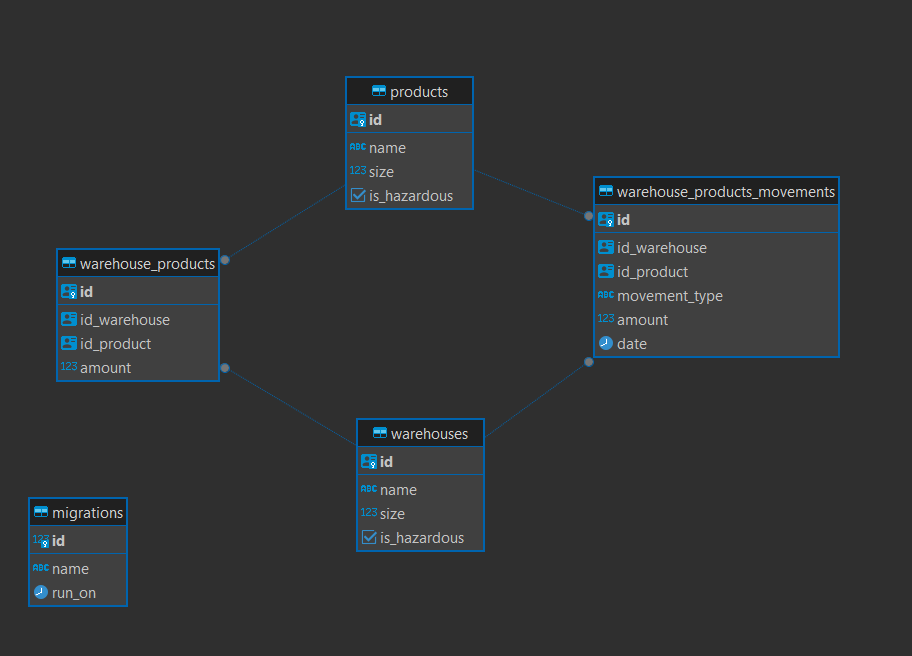
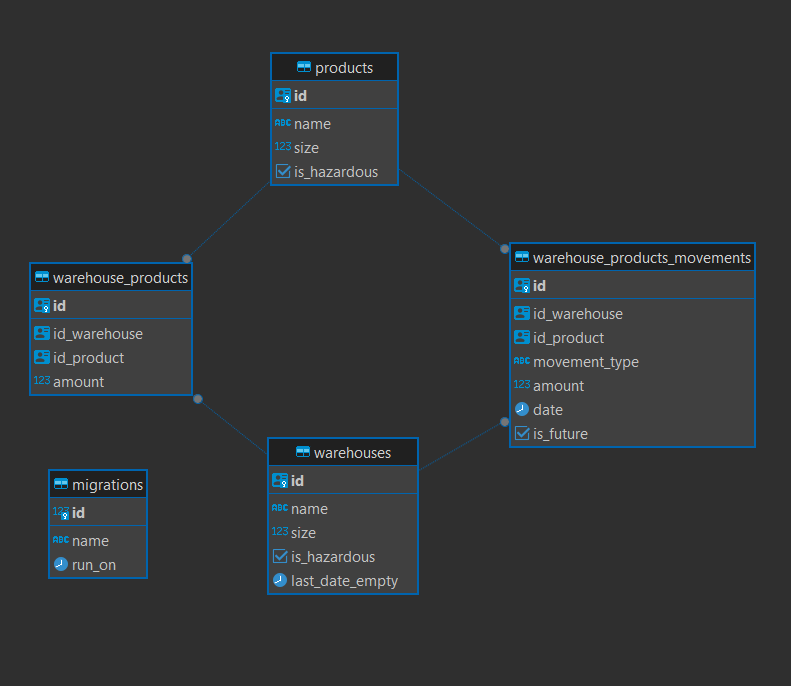
Add is_future to warehouse_products_movements and last_date_empty to warehouses

diff --git a/db_admin/scripts/002-records.js b/db_admin/scripts/002-records.js
@@ -43,19 +43,19 @@ const query = [
   `INSERT INTO products (name, size, is_hazardous) VALUES ('Shaving Cream', 2, FALSE);`,
 
   // Insert warehouse movements for "Warehouse Block A", imports
-  `INSERT INTO warehouse_products_movements (id, id_warehouse, id_product, movement_type, amount, date) VALUES (gen_random_uuid(), (SELECT id FROM warehouses WHERE name = 'Warehouse Block A'), (SELECT id FROM products WHERE name = 'Acetone'), 'import', 1, '2024/12/12 10:00:00.001');`,
-  `INSERT INTO warehouse_products_movements (id, id_warehouse, id_product, movement_type, amount, date) VALUES (gen_random_uuid(), (SELECT id FROM warehouses WHERE name = 'Warehouse Block A'), (SELECT id FROM products WHERE name = 'Hydrochloric Acid'), 'import', 2, '2024/12/12 11:00:00.001');`,
-  `INSERT INTO warehouse_products_movements (id, id_warehouse, id_product, movement_type, amount, date) VALUES (gen_random_uuid(), (SELECT id FROM warehouses WHERE name = 'Warehouse Block A'), (SELECT id FROM products WHERE name = 'Sodium Cyanide'), 'import', 3, '2024/12/12 12:00:00.001');`,
-  `INSERT INTO warehouse_products_movements (id, id_warehouse, id_product, movement_type, amount, date) VALUES (gen_random_uuid(), (SELECT id FROM warehouses WHERE name = 'Warehouse Block A'), (SELECT id FROM products WHERE name = 'Benzene'), 'import', 1, now());`,
-  `INSERT INTO warehouse_products_movements (id, id_warehouse, id_product, movement_type, amount, date) VALUES (gen_random_uuid(), (SELECT id FROM warehouses WHERE name = 'Warehouse Block A'), (SELECT id FROM products WHERE name = 'Mercury'), 'import', 2, now());`,
-  `INSERT INTO warehouse_products_movements (id, id_warehouse, id_product, movement_type, amount, date) VALUES (gen_random_uuid(), (SELECT id FROM warehouses WHERE name = 'Warehouse Block A'), (SELECT id FROM products WHERE name = 'Gasoline'), 'import', 1, now());`,
-  `INSERT INTO warehouse_products_movements (id, id_warehouse, id_product, movement_type, amount, date) VALUES (gen_random_uuid(), (SELECT id FROM warehouses WHERE name = 'Warehouse Block A'), (SELECT id FROM products WHERE name = 'Radioactive Waste'), 'import', 2, now());`,
-  `INSERT INTO warehouse_products_movements (id, id_warehouse, id_product, movement_type, amount, date) VALUES (gen_random_uuid(), (SELECT id FROM warehouses WHERE name = 'Warehouse Block A'), (SELECT id FROM products WHERE name = 'Chlorine Gas'), 'import', 3, now());`,
+  `INSERT INTO warehouse_products_movements (id, id_warehouse, id_product, movement_type, amount, date, is_future) VALUES (gen_random_uuid(), (SELECT id FROM warehouses WHERE name = 'Warehouse Block A'), (SELECT id FROM products WHERE name = 'Acetone'), 'import', 1, '2024/12/12 10:00:00.001', false);`,
+  `INSERT INTO warehouse_products_movements (id, id_warehouse, id_product, movement_type, amount, date, is_future) VALUES (gen_random_uuid(), (SELECT id FROM warehouses WHERE name = 'Warehouse Block A'), (SELECT id FROM products WHERE name = 'Hydrochloric Acid'), 'import', 2, '2024/12/12 11:00:00.001', false);`,
+  `INSERT INTO warehouse_products_movements (id, id_warehouse, id_product, movement_type, amount, date, is_future) VALUES (gen_random_uuid(), (SELECT id FROM warehouses WHERE name = 'Warehouse Block A'), (SELECT id FROM products WHERE name = 'Sodium Cyanide'), 'import', 3, '2024/12/12 12:00:00.001', false);`,
+  `INSERT INTO warehouse_products_movements (id, id_warehouse, id_product, movement_type, amount, date, is_future) VALUES (gen_random_uuid(), (SELECT id FROM warehouses WHERE name = 'Warehouse Block A'), (SELECT id FROM products WHERE name = 'Benzene'), 'import', 1, now(), false);`,
+  `INSERT INTO warehouse_products_movements (id, id_warehouse, id_product, movement_type, amount, date, is_future) VALUES (gen_random_uuid(), (SELECT id FROM warehouses WHERE name = 'Warehouse Block A'), (SELECT id FROM products WHERE name = 'Mercury'), 'import', 2, now(), false);`,
+  `INSERT INTO warehouse_products_movements (id, id_warehouse, id_product, movement_type, amount, date, is_future) VALUES (gen_random_uuid(), (SELECT id FROM warehouses WHERE name = 'Warehouse Block A'), (SELECT id FROM products WHERE name = 'Gasoline'), 'import', 1, now(), false);`,
+  `INSERT INTO warehouse_products_movements (id, id_warehouse, id_product, movement_type, amount, date, is_future) VALUES (gen_random_uuid(), (SELECT id FROM warehouses WHERE name = 'Warehouse Block A'), (SELECT id FROM products WHERE name = 'Radioactive Waste'), 'import', 2, now(), false);`,
+  `INSERT INTO warehouse_products_movements (id, id_warehouse, id_product, movement_type, amount, date, is_future) VALUES (gen_random_uuid(), (SELECT id FROM warehouses WHERE name = 'Warehouse Block A'), (SELECT id FROM products WHERE name = 'Chlorine Gas'), 'import', 3, now(), false);`,
 
   // Insert warehouse movements for "Warehouse Block A", exports
-  `INSERT INTO warehouse_products_movements (id, id_warehouse, id_product, movement_type, amount, date) VALUES (gen_random_uuid(), (SELECT id FROM warehouses WHERE name = 'Warehouse Block A'), (SELECT id FROM products WHERE name = 'Acetone'), 'export', 1, now());`,
-  `INSERT INTO warehouse_products_movements (id, id_warehouse, id_product, movement_type, amount, date) VALUES (gen_random_uuid(), (SELECT id FROM warehouses WHERE name = 'Warehouse Block A'), (SELECT id FROM products WHERE name = 'Hydrochloric Acid'), 'export', 1, now());`,
-  `INSERT INTO warehouse_products_movements (id, id_warehouse, id_product, movement_type, amount, date) VALUES (gen_random_uuid(), (SELECT id FROM warehouses WHERE name = 'Warehouse Block A'), (SELECT id FROM products WHERE name = 'Sodium Cyanide'), 'export', 1, now());`,
+  `INSERT INTO warehouse_products_movements (id, id_warehouse, id_product, movement_type, amount, date, is_future) VALUES (gen_random_uuid(), (SELECT id FROM warehouses WHERE name = 'Warehouse Block A'), (SELECT id FROM products WHERE name = 'Acetone'), 'export', 1, now(), false);`,
+  `INSERT INTO warehouse_products_movements (id, id_warehouse, id_product, movement_type, amount, date, is_future) VALUES (gen_random_uuid(), (SELECT id FROM warehouses WHERE name = 'Warehouse Block A'), (SELECT id FROM products WHERE name = 'Hydrochloric Acid'), 'export', 1, now(), false);`,
+  `INSERT INTO warehouse_products_movements (id, id_warehouse, id_product, movement_type, amount, date, is_future) VALUES (gen_random_uuid(), (SELECT id FROM warehouses WHERE name = 'Warehouse Block A'), (SELECT id FROM products WHERE name = 'Sodium Cyanide'), 'export', 1, now(), false);`,
 
   // Insert warehouse current products for "Warehouse Block A"
   `INSERT INTO warehouse_products (id, id_warehouse, id_product, amount) VALUES (gen_random_uuid(), (SELECT id FROM warehouses WHERE name = 'Warehouse Block A'), (SELECT id FROM products WHERE name = 'Hydrochloric Acid'), 1);`,
@@ -67,20 +67,20 @@ const query = [
   `INSERT INTO warehouse_products (id, id_warehouse, id_product, amount) VALUES (gen_random_uuid(), (SELECT id FROM warehouses WHERE name = 'Warehouse Block A'), (SELECT id FROM products WHERE name = 'Chlorine Gas'), 3);`,
 
   // Insert warehouse movements for "Warehouse Block B", imports
-  `INSERT INTO warehouse_products_movements (id, id_warehouse, id_product, movement_type, amount, date) VALUES (gen_random_uuid(), (SELECT id FROM warehouses WHERE name = 'Warehouse Block B'), (SELECT id FROM products WHERE name = 'Fabric Softener'), 'import', 1, '2024/12/12 10:00:00.001');`,
-  `INSERT INTO warehouse_products_movements (id, id_warehouse, id_product, movement_type, amount, date) VALUES (gen_random_uuid(), (SELECT id FROM warehouses WHERE name = 'Warehouse Block B'), (SELECT id FROM products WHERE name = 'Mouthwash'), 'import', 2, '2024/12/12 11:00:00.001');`,
-  `INSERT INTO warehouse_products_movements (id, id_warehouse, id_product, movement_type, amount, date) VALUES (gen_random_uuid(), (SELECT id FROM warehouses WHERE name = 'Warehouse Block B'), (SELECT id FROM products WHERE name = 'Sponges'), 'import', 3, '2024/12/12 12:00:00.001');`,
-  `INSERT INTO warehouse_products_movements (id, id_warehouse, id_product, movement_type, amount, date) VALUES (gen_random_uuid(), (SELECT id FROM warehouses WHERE name = 'Warehouse Block B'), (SELECT id FROM products WHERE name = 'Dish Towels'), 'import', 1, now());`,
-  `INSERT INTO warehouse_products_movements (id, id_warehouse, id_product, movement_type, amount, date) VALUES (gen_random_uuid(), (SELECT id FROM warehouses WHERE name = 'Warehouse Block B'), (SELECT id FROM products WHERE name = 'Fabric Softener'), 'import', 2, now());`,
-  `INSERT INTO warehouse_products_movements (id, id_warehouse, id_product, movement_type, amount, date) VALUES (gen_random_uuid(), (SELECT id FROM warehouses WHERE name = 'Warehouse Block B'), (SELECT id FROM products WHERE name = 'Dish Towels'), 'import', 3, now());`,
-  `INSERT INTO warehouse_products_movements (id, id_warehouse, id_product, movement_type, amount, date) VALUES (gen_random_uuid(), (SELECT id FROM warehouses WHERE name = 'Warehouse Block B'), (SELECT id FROM products WHERE name = 'Baking Soda'), 'import', 1, now());`,
-  `INSERT INTO warehouse_products_movements (id, id_warehouse, id_product, movement_type, amount, date) VALUES (gen_random_uuid(), (SELECT id FROM warehouses WHERE name = 'Warehouse Block B'), (SELECT id FROM products WHERE name = 'Laundry Detergent'), 'import', 2, now());`,
-  `INSERT INTO warehouse_products_movements (id, id_warehouse, id_product, movement_type, amount, date) VALUES (gen_random_uuid(), (SELECT id FROM warehouses WHERE name = 'Warehouse Block B'), (SELECT id FROM products WHERE name = 'Shaving Cream'), 'import', 1, now());`,
+  `INSERT INTO warehouse_products_movements (id, id_warehouse, id_product, movement_type, amount, date, is_future) VALUES (gen_random_uuid(), (SELECT id FROM warehouses WHERE name = 'Warehouse Block B'), (SELECT id FROM products WHERE name = 'Fabric Softener'), 'import', 1, '2024/12/12 10:00:00.001', false);`,
+  `INSERT INTO warehouse_products_movements (id, id_warehouse, id_product, movement_type, amount, date, is_future) VALUES (gen_random_uuid(), (SELECT id FROM warehouses WHERE name = 'Warehouse Block B'), (SELECT id FROM products WHERE name = 'Mouthwash'), 'import', 2, '2024/12/12 11:00:00.001', false);`,
+  `INSERT INTO warehouse_products_movements (id, id_warehouse, id_product, movement_type, amount, date, is_future) VALUES (gen_random_uuid(), (SELECT id FROM warehouses WHERE name = 'Warehouse Block B'), (SELECT id FROM products WHERE name = 'Sponges'), 'import', 3, '2024/12/12 12:00:00.001', false);`,
+  `INSERT INTO warehouse_products_movements (id, id_warehouse, id_product, movement_type, amount, date, is_future) VALUES (gen_random_uuid(), (SELECT id FROM warehouses WHERE name = 'Warehouse Block B'), (SELECT id FROM products WHERE name = 'Dish Towels'), 'import', 1, now(), false);`,
+  `INSERT INTO warehouse_products_movements (id, id_warehouse, id_product, movement_type, amount, date, is_future) VALUES (gen_random_uuid(), (SELECT id FROM warehouses WHERE name = 'Warehouse Block B'), (SELECT id FROM products WHERE name = 'Fabric Softener'), 'import', 2, now(), false);`,
+  `INSERT INTO warehouse_products_movements (id, id_warehouse, id_product, movement_type, amount, date, is_future) VALUES (gen_random_uuid(), (SELECT id FROM warehouses WHERE name = 'Warehouse Block B'), (SELECT id FROM products WHERE name = 'Dish Towels'), 'import', 3, now(), false);`,
+  `INSERT INTO warehouse_products_movements (id, id_warehouse, id_product, movement_type, amount, date, is_future) VALUES (gen_random_uuid(), (SELECT id FROM warehouses WHERE name = 'Warehouse Block B'), (SELECT id FROM products WHERE name = 'Baking Soda'), 'import', 1, now(), false);`,
+  `INSERT INTO warehouse_products_movements (id, id_warehouse, id_product, movement_type, amount, date, is_future) VALUES (gen_random_uuid(), (SELECT id FROM warehouses WHERE name = 'Warehouse Block B'), (SELECT id FROM products WHERE name = 'Laundry Detergent'), 'import', 2, now(), false);`,
+  `INSERT INTO warehouse_products_movements (id, id_warehouse, id_product, movement_type, amount, date, is_future) VALUES (gen_random_uuid(), (SELECT id FROM warehouses WHERE name = 'Warehouse Block B'), (SELECT id FROM products WHERE name = 'Shaving Cream'), 'import', 1, now(), false);`,
 
   // Insert warehouse movements for "Warehouse Block B", exports
-  `INSERT INTO warehouse_products_movements (id, id_warehouse, id_product, movement_type, amount, date) VALUES (gen_random_uuid(), (SELECT id FROM warehouses WHERE name = 'Warehouse Block B'), (SELECT id FROM products WHERE name = 'Fabric Softener'), 'export', 1, now());`,
-  `INSERT INTO warehouse_products_movements (id, id_warehouse, id_product, movement_type, amount, date) VALUES (gen_random_uuid(), (SELECT id FROM warehouses WHERE name = 'Warehouse Block B'), (SELECT id FROM products WHERE name = 'Mouthwash'), 'export', 1, now());`,
-  `INSERT INTO warehouse_products_movements (id, id_warehouse, id_product, movement_type, amount, date) VALUES (gen_random_uuid(), (SELECT id FROM warehouses WHERE name = 'Warehouse Block B'), (SELECT id FROM products WHERE name = 'Sponges'), 'export', 1, now());`,
+  `INSERT INTO warehouse_products_movements (id, id_warehouse, id_product, movement_type, amount, date, is_future) VALUES (gen_random_uuid(), (SELECT id FROM warehouses WHERE name = 'Warehouse Block B'), (SELECT id FROM products WHERE name = 'Fabric Softener'), 'export', 1, now(), false);`,
+  `INSERT INTO warehouse_products_movements (id, id_warehouse, id_product, movement_type, amount, date, is_future) VALUES (gen_random_uuid(), (SELECT id FROM warehouses WHERE name = 'Warehouse Block B'), (SELECT id FROM products WHERE name = 'Mouthwash'), 'export', 1, now(), false);`,
+  `INSERT INTO warehouse_products_movements (id, id_warehouse, id_product, movement_type, amount, date, is_future) VALUES (gen_random_uuid(), (SELECT id FROM warehouses WHERE name = 'Warehouse Block B'), (SELECT id FROM products WHERE name = 'Sponges'), 'export', 1, now(), false);`,
 
   // Insert warehouse current products for "Warehouse Block B"
   `INSERT INTO warehouse_products (id, id_warehouse, id_product, amount) VALUES (gen_random_uuid(), (SELECT id FROM warehouses WHERE name = 'Warehouse Block B'), (SELECT id FROM products WHERE name = 'Mouthwash'), 1);`,

diff --git a/db_admin/migrations/001-initial-add-tables.js b/db_admin/migrations/001-initial-add-tables.js
@@ -12,8 +12,9 @@ exports.up = (pgm) => {
       type: "boolean",
       notNull: false,
       default: null,
-      Comment: "NULL value if warehouse empty",
+      comment: "NULL value if warehouse empty",
     }, // NULL value if warehouse is empty
+    last_date_empty: { type: "timestamp", notNull: true, default: pgm.func("now()") },
   });
 
   // Create the products table
@@ -50,7 +51,7 @@ exports.up = (pgm) => {
     amount: { type: "integer", notNull: true, check: "amount > 0" },
   });
 
-  // Create the warehouse_products table
+  // Create the warehouse_products_movements table
   pgm.createTable("warehouse_products_movements", {
     id: {
       type: "uuid",
@@ -76,6 +77,10 @@ exports.up = (pgm) => {
     },
     amount: { type: "integer", notNull: true, check: "amount > 0" },
     date: { type: "timestamp", notNull: true, default: pgm.func("now()") },
+    is_future: {
+      type: "boolean",
+      notNull: true,
+    },
   });
 };
 
